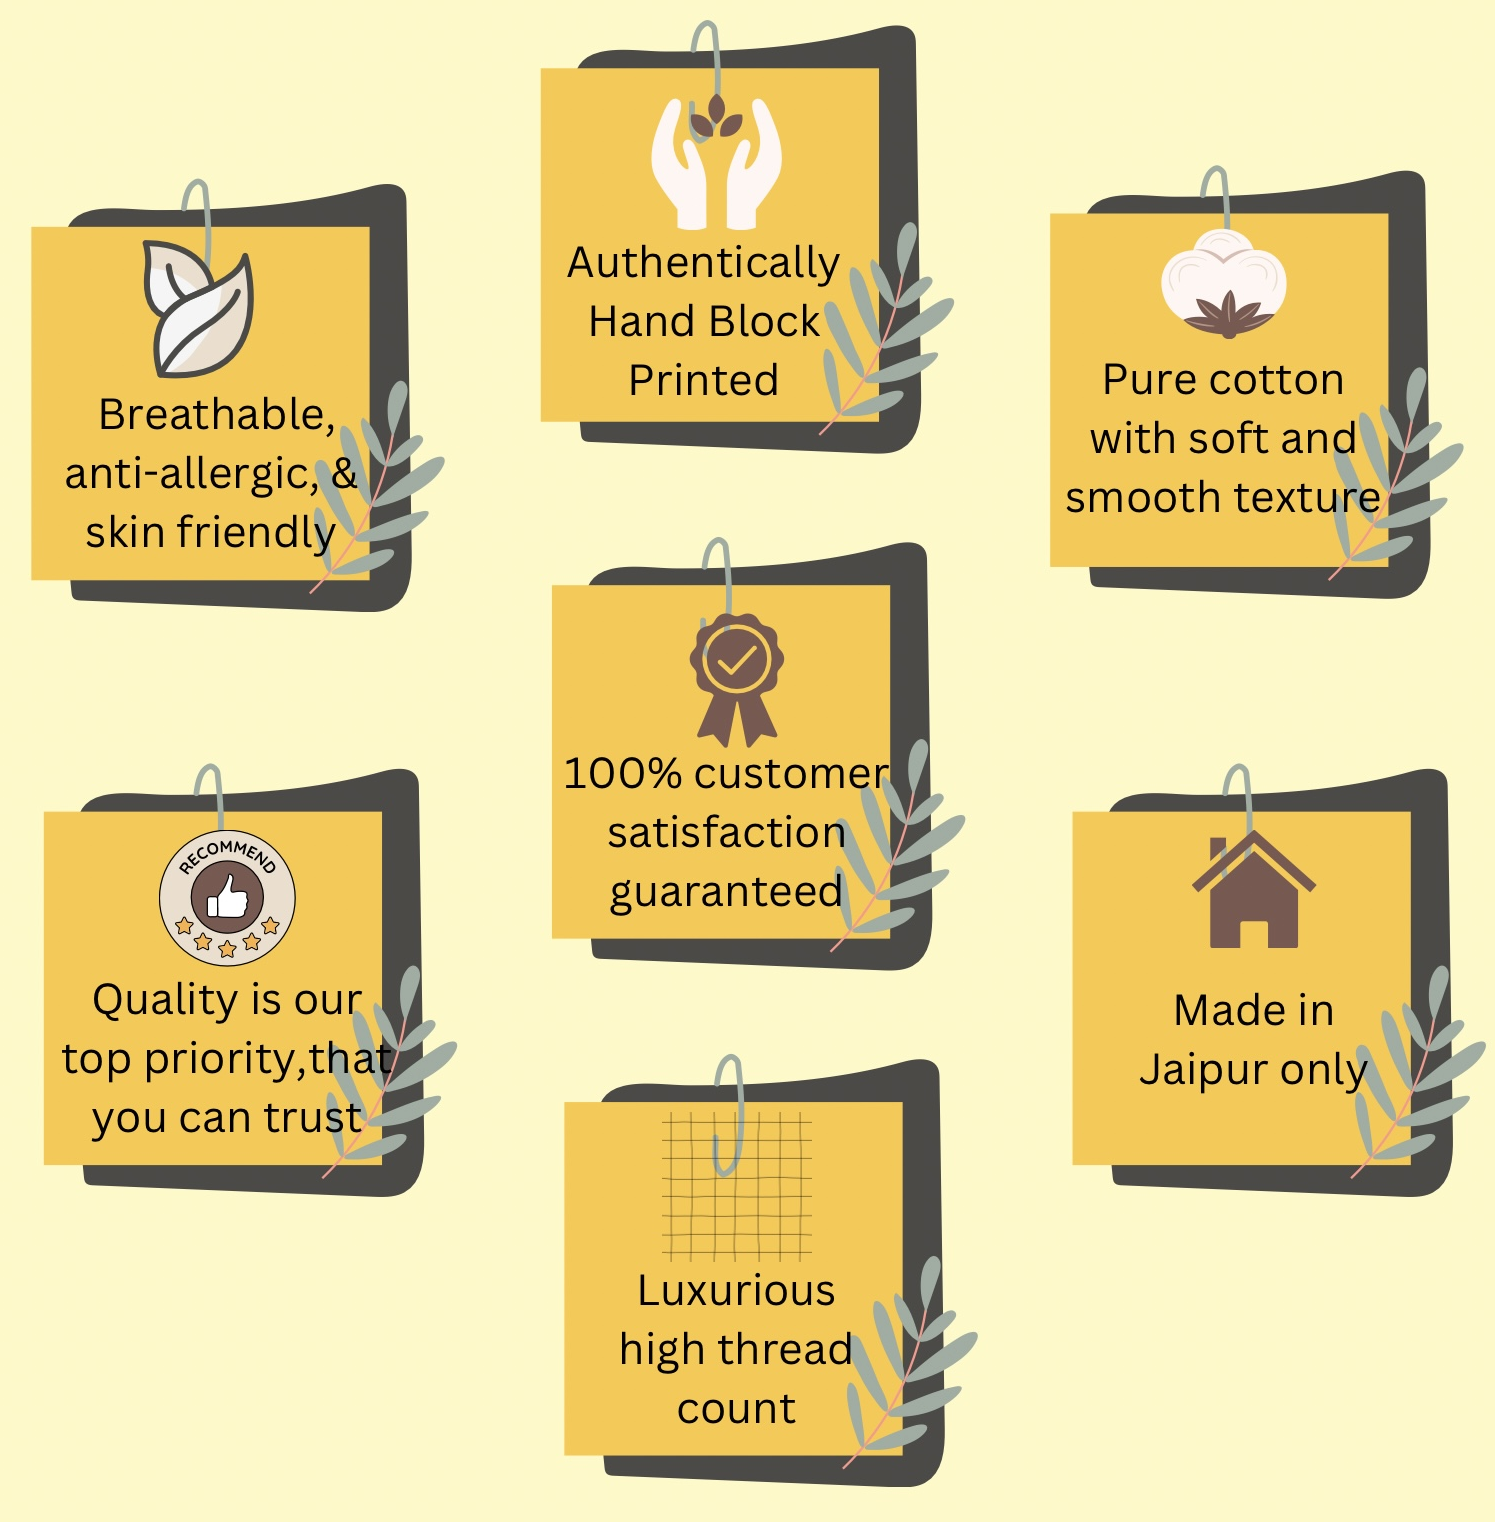
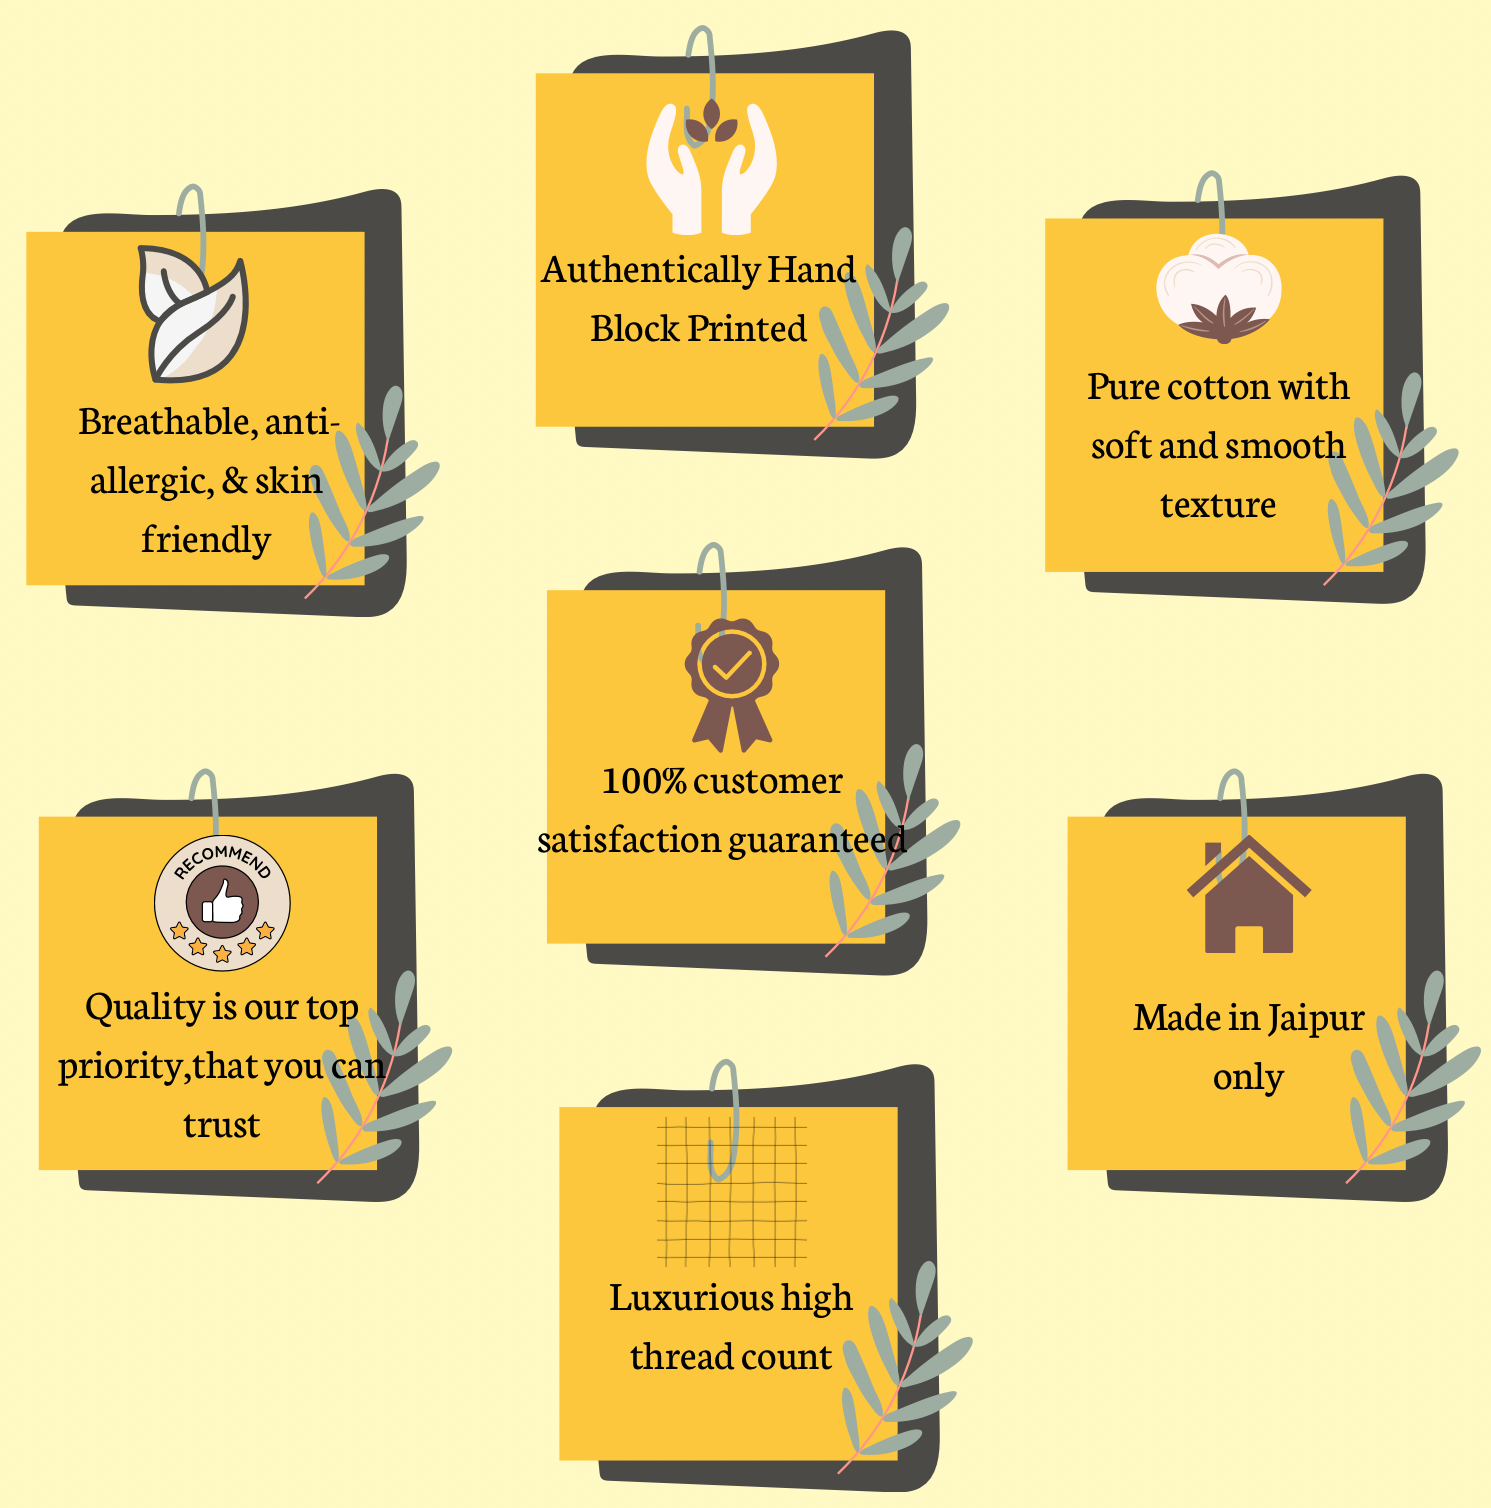
chore: code

diff --git a/user-panel/src/components/Inventory/ItemDetails.js b/user-panel/src/components/Inventory/ItemDetails.js
@@ -228,7 +228,7 @@ const ItemDetails = ({ product, queryParams }) => {
       return;
     }
     if (selections?.selectedOption === 'custom' && (selections?.selectedCustomFittedItem === '' || selections?.dimensions?.width === '' || selections?.dimensions?.height === '' || selections?.dimensions?.length === '')) {
-      setSnackbarMessage('Please fill all sizes before adding to the cart.');
+      setSnackbarMessage('Please fill all dimensions before adding to the cart.');
       setOpenSnackbar(true);
       return;
     }
@@ -366,7 +366,7 @@ Thank you so much!`;
               </Typography>
 
               {product?.availability &&
-                <Typography variant='body2' sx={{ color: displayAvailability ? 'red' : 'green', mb: 1 }}>
+                <Typography variant='body2' sx={{ color: displayAvailability ? '#cf2e2e' : 'green', mb: 1 }}>
                   {displayAvailability ? "Out of Stock" : "In Stock"}
                 </Typography>
                 // <Typography variant='body2' sx={{ color: product?.extraOptionOutOfStock ? 'red' : 'green', mb: 1 }}>
@@ -383,11 +383,11 @@ Thank you so much!`;
               }
 
               <Divider sx={{ borderStyle: "dotted", mb: 2 }} />
-              <Typography variant="body1" gutterBottom>
+              <Typography variant="body2" gutterBottom>
                 <strong>Category:</strong> {product?.Category?.categoryName}
               </Typography>
-              <Typography variant='body1' sx={{ fontSize: '0.9rem', mt: 1 }}>
-                SKU: {product?.skuId}
+              <Typography variant='body2' >
+                <strong>SKU:</strong> {product?.skuId}
               </Typography>
               <Divider sx={{ borderStyle: "dotted", mt: 2, mb: 2 }} />
               {product?.availability === false ?
@@ -395,7 +395,7 @@ Thank you so much!`;
                 (quantity === 0 ? (
                   <Typography variant="caption" sx={{
                     fontSize: '1rem',
-                    color: "red",
+                    color: "#cf2e2e",
                     lineHeight: '1',
                     padding: 0,
                     display: 'block',
@@ -407,7 +407,7 @@ Thank you so much!`;
                   : (
                     <Typography variant="caption" sx={{
                       fontSize: '1rem',
-                      color: displayAvailability ? 'green' : 'red',
+                      color: displayAvailability ? 'green' : '#cf2e2e',
                       lineHeight: '1',
                       padding: 0,
                       display: 'block',
@@ -683,7 +683,7 @@ Thank you so much!`;
         message={snackbarMessage}
       >
         <SnackbarContent style={{
-          backgroundColor: "#F44336",
+          backgroundColor: "#fa6666",
           color: "white"
         }}
           message={snackbarMessage}

diff --git a/user-panel/src/app/cart/page.js b/user-panel/src/app/cart/page.js
@@ -121,11 +121,11 @@ const CartPage = () => {
   }).join('\n');
   const userDetails = `\n\nMy Details are here:\n` +
     `${cartItems[0]?.User?.firstName || cartItems[0]?.User?.lastName ? `Name: ${cartItems[0]?.User.firstName || ''} ${cartItems[0]?.User.lastName || ''}\n` : ''}` +
-    `${cartItems[0]?.User?.address1 || cartItems[0]?.User?.address2 || cartItems[0]?.User?.city || cartItems[0]?.User?.state || cartItems[0]?.User?.[pincode] ? `Address: ${[cartItems[0]?.User.address1, cartItems[0]?.User.address2, cartItems[0]?.User.city, cartItems[0]?.User.state, cartItems[0]?.User.pincode].filter(Boolean).join(', ')}\n` : '[Postal address, City, State]'}` +
+    `${cartItems[0]?.User?.address1 || cartItems[0]?.User?.address2 || cartItems[0]?.User?.city || cartItems[0]?.User?.state || cartItems[0]?.User?.[pincode] ? `Address: ${[cartItems[0]?.User.address1, cartItems[0]?.User.address2, cartItems[0]?.User.city, cartItems[0]?.User.state].filter(Boolean).join(', ')}\n` : '[Postal address, City, State]'}` +
     `${cartItems[0]?.User?.country ? `Country: ${cartItems[0]?.User.country}\n` : ''}` +
-    `${cartItems[0]?.User?.pincode ? `PinCode: ${cartItems[0]?.User.pincode}\n` : ''}` +
-    `${cartItems[0]?.User?.email ? `Email: ${cartItems[0]?.User.email}\n` : ''}` +
-    `${cartItems[0]?.User?.phoneNumber ? `Phone Number: ${cartItems[0]?.User.phoneNumber}\n` : ''}`
+    `${cartItems[0]?.User?.pincode ? `ZipCode: ${cartItems[0]?.User.pincode}\n` : ''}` +
+    `${cartItems[0]?.User?.phoneNumber ? `Phone Number: ${cartItems[0]?.User.phoneNumber}\n` : '' +
+      `${cartItems[0]?.User?.email ? `Email: ${cartItems[0]?.User.email}\n` : ''}`}`
     ;
 
   const whatsappURL = `https://wa.me/${process.env.WHATSAPP_NUMBER}?text=${encodeURIComponent(
@@ -139,7 +139,7 @@ const CartPage = () => {
         </Typography>
       </Box>
       {cartItems.length === 0 && (
-        <Typography variant="body1">
+        <Typography variant="body2">
           Your cart is empty <strong><Link href="/shop">Browse products</Link></strong> to add items or  <strong style={{ cursor: "pointer" }} onClick={handleLogin}>Login</strong> to see your saved cart.
         </Typography>
       )}
@@ -281,7 +281,7 @@ const CartPage = () => {
           message={snackbarMessage}
         >
           <SnackbarContent style={{
-            backgroundColor: "red",
+            backgroundColor: "#fa6666",
             color: "black"
           }}
             message={snackbarMessage}

diff --git a/user-panel/src/components/CraftedWithLove.js b/user-panel/src/components/CraftedWithLove.js
@@ -85,9 +85,34 @@ export const CraftedWithLove = () => {
                     <Typography gutterBottom variant="body1" component="div" sx={{ display: "flex", justifyContent: "center", alignItems: "center", flexDirection: "column" }}>
                       {item.productName}
                     </Typography>
-                    <Typography variant="body2" color="text.secondary">
-                      Price: {item.sellingPrice}
-                    </Typography>
+
+                    {item?.discountedPrice ? (
+                      <Box sx={{ display: 'flex', alignItems: 'left', gap: 0.5 }}>
+                        <Typography variant="body2">
+                          MRP
+                        </Typography>
+                        <Typography variant="body2" sx={{ textDecoration: 'line-through' }}>
+                          ₹{item.sellingPrice?.toFixed(2)}
+                        </Typography>
+                        <Typography variant="body2" sx={{ marginRight: "3px", fontWeight: "bold" }} >
+                          ₹{item.discountedPrice?.toFixed(2)}
+                        </Typography>
+                        {/* <Typography variant="body2" color="error" sx={{
+                        display: 'inline-block',
+                        background: 'linear-gradient(135deg, #FF5733 100%, #FFC300 30%)',
+                        padding: '0px 10px',
+                        borderRadius: '1px',
+                        clipPath: 'polygon(0 0, 100% 0, 90% 100%, 0% 100%)',
+                        color: "white",
+                      }}>
+                        {`${Math.round(((product.sellingPrice?.toFixed(2) - product.discountedPrice?.toFixed(2)) / product.sellingPrice?.toFixed(2)) * 100)}% OFF!`}
+                      </Typography> */}
+                      </Box>
+                    ) : (
+                      <Typography variant="body2" sx={{ marginRight: "3px", fontWeight: "bold" }} >
+                        ₹{item.sellingPrice?.toFixed(2)}
+                      </Typography>
+                    )}
                   </CardContent>
                 </Card>
               </Grid>

diff --git a/user-panel/src/components/PageNav.js b/user-panel/src/components/PageNav.js
@@ -19,7 +19,7 @@ import ListItemText from "@mui/material/ListItemText";
 import ExpandLess from "@mui/icons-material/ExpandLess";
 import ExpandMore from "@mui/icons-material/ExpandMore";
 import Collapse from "@mui/material/Collapse";
-import { Badge, SvgIcon } from "@mui/material";
+import { Badge, SvgIcon, useMediaQuery } from "@mui/material";
 import ShoppingCartIcon from "@mui/icons-material/ShoppingCart";
 import FavoriteIcon from "@mui/icons-material/Favorite";
 import { useAuth } from "../contexts/auth";
@@ -140,6 +140,7 @@ const AuthenticatedSection = styled(Box)(({ theme }) => ({
 }));
 
 export default function PageNav({ children }) {
+
   const { isAuthenticated, isLoading, logout, openTab, setOpenTab, wishlistCount, cartCount, user, openAuthModal } = useAuth();
   const theme = useTheme();
   const [open, setOpen] = useState(isAuthenticated);
@@ -147,6 +148,7 @@ export default function PageNav({ children }) {
   const [scrolledstate, setScrolledstate] = useState(false);
   const router = useRouter();
   const drawerRef = useRef(null);
+  const isMobile = useMediaQuery(theme.breakpoints.down("sm"));
 
 
   const handleClickOutside = (event) => {
@@ -574,7 +576,7 @@ export default function PageNav({ children }) {
         )}
       </Drawer>
       <Main component="main" sx={{
-        flexGrow: 1, p: 0, minHeight: "100vh", marginTop: scrolledstate ? "64px" : "0px",
+        flexGrow: 1, p: 0, minHeight: "100vh", marginTop: scrolledstate ? "33px" : "0px",
         transition: "margin-top 0.6s ease"
       }}>
         {children}

diff --git a/user-panel/src/app/globals.css b/user-panel/src/app/globals.css
@@ -28,7 +28,11 @@ button,
 .MuiButton-root,
 .MuiContainer-root,
 .MuiBox-root,
-.MuiLink-root {
+.MuiLink-root,
+.MuiSelect-root,
+.MuiMenuItem-root,
+.MuiInputLabel-root,
+.MuiFormControl-root {
   font-family: "Neuton", serif;
   font-weight: 500;
 }
@@ -81,7 +85,11 @@ button,
   .MuiButton-root,
   .MuiContainer-root,
   .MuiBox-root,
-  .MuiLink-root {
+  .MuiLink-root,
+  .MuiSelect-root,
+  .MuiMenuItem-root,
+  .MuiInputLabel-root,
+  .MuiFormControl-root {
     font-family: "Neuton", serif;
     font-weight: 500;
   }
@@ -134,7 +142,11 @@ button,
   .MuiButton-root,
   .MuiContainer-root,
   .MuiBox-root,
-  .MuiLink-root {
+  .MuiLink-root,
+  .MuiSelect-root,
+  .MuiMenuItem-root,
+  .MuiInputLabel-root,
+  .MuiFormControl-root {
     font-family: "Neuton", serif;
     font-weight: 500;
   }
@@ -187,7 +199,11 @@ button,
   .MuiButton-root,
   .MuiContainer-root,
   .MuiBox-root,
-  .MuiLink-root {
+  .MuiLink-root,
+  .MuiSelect-root,
+  .MuiMenuItem-root,
+  .MuiInputLabel-root,
+  .MuiFormControl-root {
     font-family: "Neuton", serif;
     font-weight: 500;
   }
@@ -240,7 +256,11 @@ button,
   .MuiButton-root,
   .MuiContainer-root,
   .MuiBox-root,
-  .MuiLink-root {
+  .MuiLink-root,
+  .MuiSelect-root,
+  .MuiMenuItem-root,
+  .MuiInputLabel-root,
+  .MuiFormControl-root {
     font-family: "Neuton", serif;
     font-weight: 500;
   }

diff --git a/user-panel/src/components/slider.js b/user-panel/src/components/slider.js
@@ -147,16 +147,16 @@ const ImageCarousel = () => {
               bottom: '20px',
             }
           }}
-          height={isMobile ? "600px" : "800px"}
+          height={isMobile ? "500px" : "800px"}
         >
           {images.map((image, index) => (
             <Box key={index} sx={{ position: 'relative', height: '100vh' }}>
               <StyledImage
                 src={`https://ayrujaipur.s3.amazonaws.com/${image.imageUrl}`}
                 alt={`Slide ${index}`}
-                style={{ transform: `translateX(${currentIndex * -100}%)`, height: isMobile ? "90%" : "120%", objectFit: "contain" }}
+                style={{ transform: `translateX(${currentIndex * -100}%)`, height: !isMobile && "120%", objectFit: isMobile ? "contain" : "cover" }}
               />
-              <OverlayText style={{ top: isMobile ? "70%" : "60%", fontSize: "1.2rem" }}>
+              <OverlayText style={{ top: isMobile ? "60%" : "60%", fontSize: "1.2rem" }}>
                 <StyledButton style={{ fontSize: isMobile ? "0.7rem" : "1rem" }} onClick={handleShop}>Shop Now</StyledButton>
               </OverlayText>
             </Box>

diff --git a/user-panel/src/components/Note.js b/user-panel/src/components/Note.js
@@ -90,7 +90,6 @@ export const Note = () => {
       <Image src={WebpImage} alt="Left Image" width={100} height={45} style={{ position: 'absolute', left: '-8px', top: isMobile ? "75%" : "70%", transform: 'translateY(-50%)', maxWidth: '20%', height: 'auto', opacity: "1" }} />
       <NoteContainer>
         {notetext || "Loading..."}
-        Welcome to AYRU JAIPUR. We specialize in authentic Jaipur handblock print beddings, blending heritage with modern design. Crafted from premium cotton for comfort and durability, each piece is handcrafted by skilled artisans with rich colors and exceptional finishes. Our commitment to quality and sustainability ensures that you experience excellence in every product.
       </NoteContainer>
       <Image src={WebpImage} alt="Right Image" width={100} height={45} style={{ position: 'absolute', right: '-8px', top: isMobile ? "75%" : "70%", transform: 'translateY(-50%)', maxWidth: '20%', height: 'auto', opacity: "1" }} />
     </MainContainer>

diff --git a/user-panel/src/components/Extra/FeedbackComponent.js b/user-panel/src/components/Extra/FeedbackComponent.js
@@ -81,7 +81,7 @@ export const FeedbackComponent = () => {
             )}
           </Box>
           <Box sx={{ width: "80%", margin: "0 auto", marginBottom: "4%", marginTop: "4%", display: "flex", flexDirection: "column", justifyContent: "center", alignItems: "center" }}>
-            <Typography variant='h5' style={{ textAlign: "center", mb: 1, fontWeight: "bold" }}>
+            <Typography variant='h5' style={{ textAlign: "center", mb: 1, fontWeight: "bold" }} mb={1}>
               FROM JAIPUR STREETS TO YOUR HOME
             </Typography>
             <Typography variant="subtitle1" style={{ textAlign: "center" }}>

diff --git a/user-panel/src/components/Inventory/SizeDropdown.js b/user-panel/src/components/Inventory/SizeDropdown.js
@@ -141,7 +141,7 @@ const CustomDropdown = ({ data, selections, setSelections, hasBedsheets }) => {
                 <Typography
                   component="div"
                   style={{
-                    fontSize: item.Flat.name.length > 20 ? '0.8rem' : '1rem',
+                    fontSize: item.Flat.name.length > 25 ? '0.79rem' : '1rem',
                     maxWidth: '100%',
                     textDecoration: item?.quantity === 0 ? 'line-through' : 'none',
                     // transform: item?.quantity === 0 ? 'rotate(-45deg)' : 'none',

diff --git a/user-panel/src/app/wishlist/page.js b/user-panel/src/app/wishlist/page.js
@@ -65,7 +65,7 @@ const WishlistPage = () => {
         </Typography>
       </Box>
       {wishlistItems.length === 0 && (
-        <Typography variant="body1">
+        <Typography variant="body2">
           Your wishlist is empty. <strong><Link href="/shop">Browse products</Link></strong> to add items or <strong style={{ cursor: "pointer" }} onClick={handleLogin}>Login</strong> to see your saved items.
         </Typography>
       )}

diff --git a/user-panel/src/components/Inventory/InventoryItem.js b/user-panel/src/components/Inventory/InventoryItem.js
@@ -189,7 +189,7 @@ const InventoryItem = ({ item }) => {
           </Typography>
         )}
 
-        <Typography variant='body2' sx={{ color: item?.extraOptionOutOfStock ? 'red' : 'green' }}>
+        <Typography variant='body2' sx={{ color: item?.extraOptionOutOfStock ? '#cf2e2e' : 'green' }}>
           {item?.extraOptionOutOfStock === true ? "Out of Stock" : "In Stock"}
         </Typography>
       </CardContent>

diff --git a/user-panel/src/app/orders/page.js b/user-panel/src/app/orders/page.js
@@ -73,7 +73,7 @@ const Orders = () => {
           <>
             {order?.status === "pending" &&
               (<>
-                <Typography color="red" mt={2}>
+                <Typography color="#fa6666" mt={2}>
                   Your payment is still pending. Please proceed to the cart and complete the checkout process again.
                 </Typography>
               </>)}
